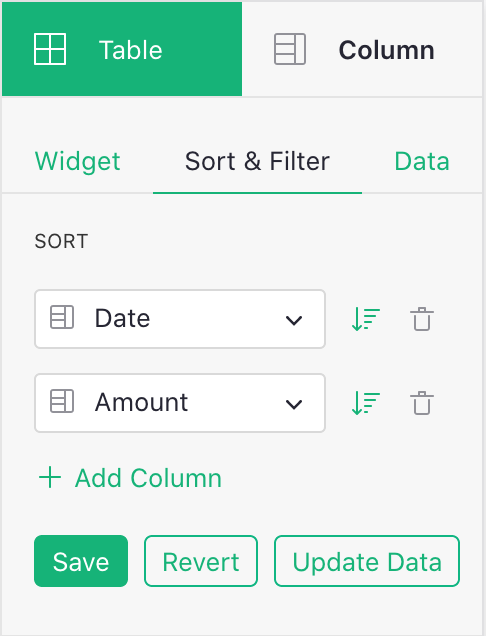
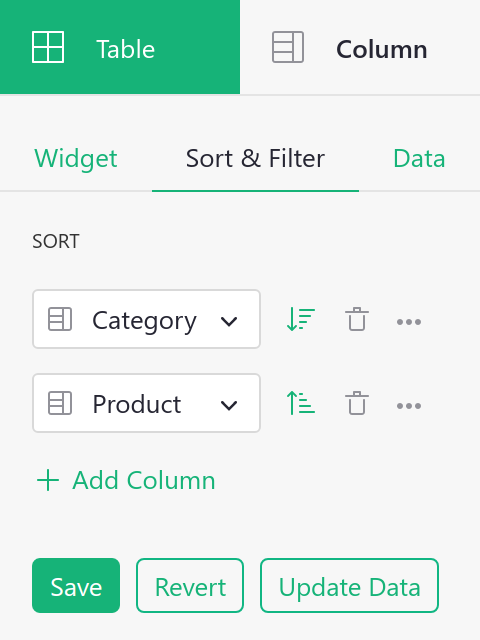
Documenting sort options.

diff --git a/help/search-sort-filter.md b/help/search-sort-filter.md
@@ -82,7 +82,24 @@ subtab in the side panel:
 <span class="screenshot-large">*![Side Panel Sort](images/search-sort-filter/side-panel-sort.png)*</span>
 {: .screenshot-half }
 
-You can add one or more columns, and save or revert settings.
+You can add one or more columns, save or revert settings and use advanced
+sorting options.
+
+### Advance sorting options
+"Sort & Filter" subtab exposes additional options for sorting algorithm that
+might be useful for various column types:
+
+- `Use choice position` available on Choice Column, sorts records using choice item order
+rather then its name.
+- `Empty values last` in alphabetical order empty values are shown first by default, use
+this option to put them at the end.
+- `Natural sort` for Text Column will treat multi-digit numbers in strings as if they were
+a single character, allowing more human-friendly ordering. For example, in natural
+alphabetical order _Product10_ will be positioned after _Product2_.
+
+<span class="screenshot-large">*![Side Panel Sorting Options](images/search-sort-filter/side-panel-sorting-options.png)*</span>
+{: .screenshot-half }
+
 
 ### Saving Row Positions
 
